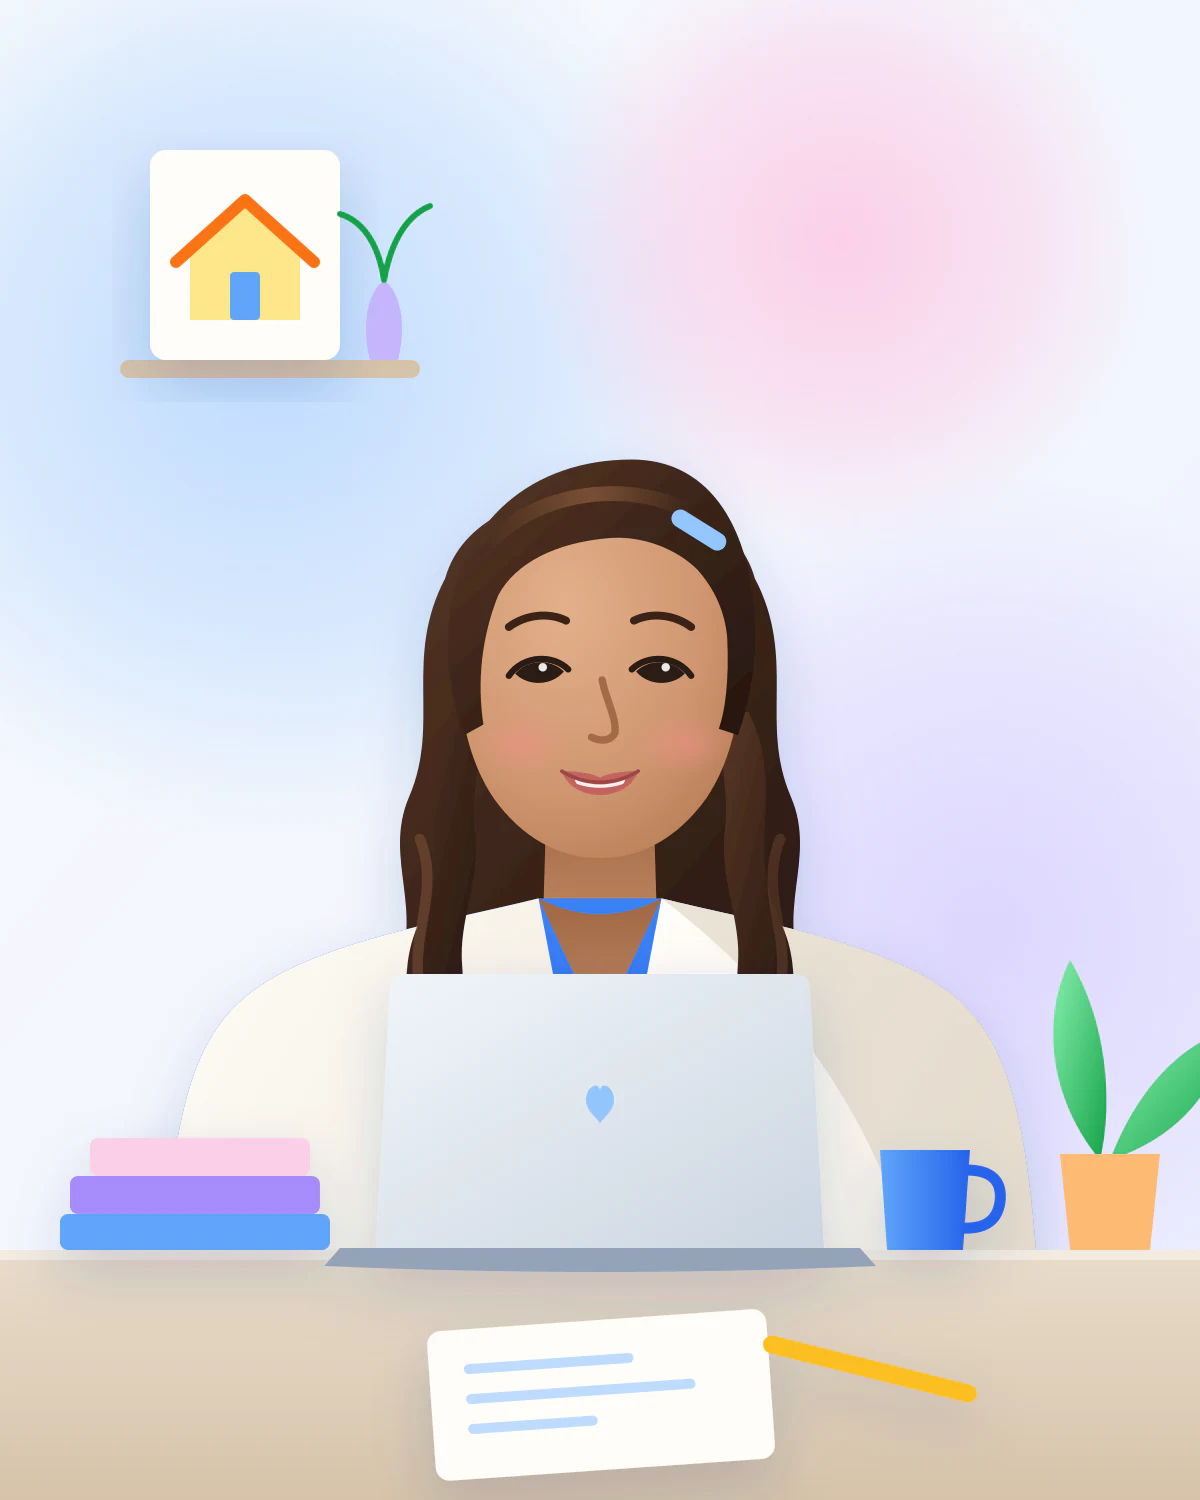
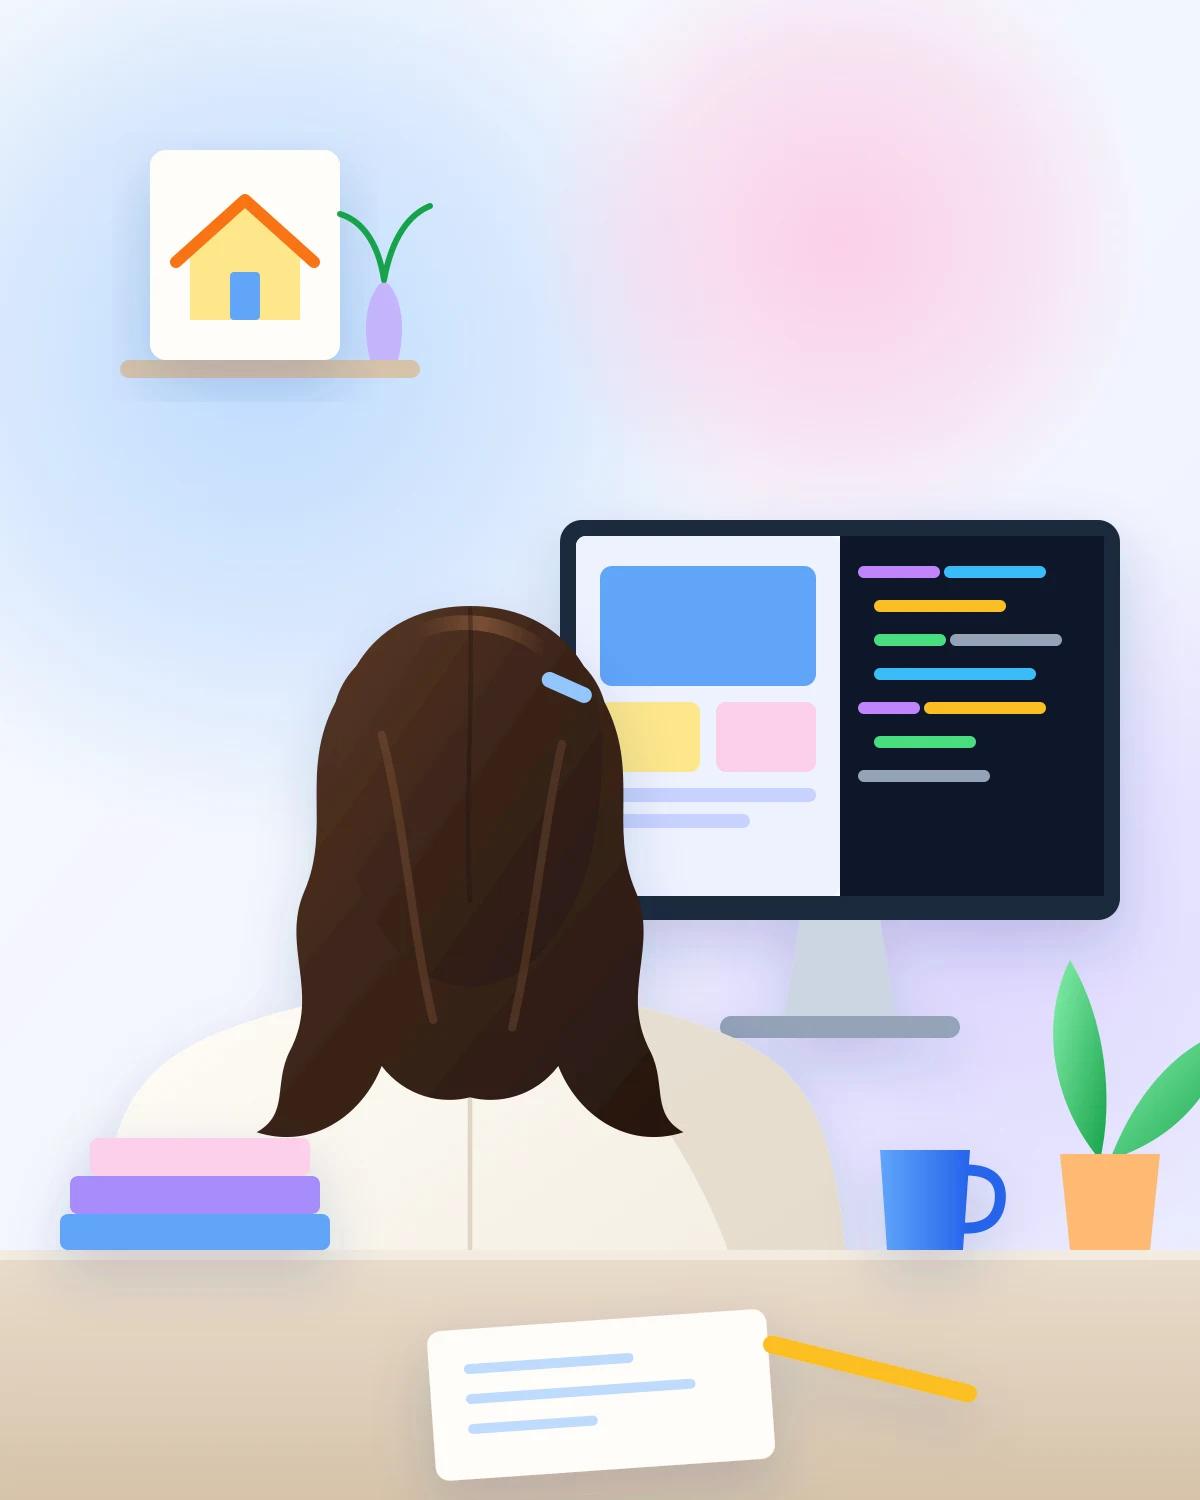
Sorelle: potret tampak belakang tanpa wajah, mockup karya ditangkap ulang tanpa teks alamat, SUMBER.md

Changed region(s): [[0.2158, 0.3067, 0.9558, 0.8587]]

diff --git a/lib/data.js b/lib/data.js
@@ -8,8 +8,8 @@ export const profile = {
   "email": "hello@sorelle.example",
   "avatar": "/images/hero.webp",
   "about": "/images/about.webp",
-  "avatarAlt": "Illustrated portrait of Sorelle with long wavy hair, a cream cardigan and a blue top",
-  "aboutAlt": "Illustration of Sorelle at her laptop with a stack of books, a blue mug and a plant",
+  "avatarAlt": "Illustration of Sorelle seen from behind: long wavy hair, a cream cardigan and a blue hair clip",
+  "aboutAlt": "Illustration of Sorelle seen from behind at a desk, with a monitor showing a design canvas next to code",
   "intro": "Friendly interfaces for families, learners, and small makers.",
   "bioShort": "I design and build warm, honest websites — the kind that mention the downside before you ask.",
   "bio": [

diff --git a/public/images/SUMBER.md b/public/images/SUMBER.md
@@ -1,0 +1,17 @@
+# Sumber gambar
+
+Persona Sorelle fiktif. Tidak ada foto orang sungguhan. Tanpa testimoni.
+
+| Berkas | Isi | Pembuat | Lisensi / catatan |
+| --- | --- | --- | --- |
+| `hero.webp` | Ilustrasi Sorelle tampak belakang (rambut panjang, kardigan krem, jepit biru) | Dibuat sendiri (sumber: `design/hero.svg`) | Milik proyek; tanpa wajah |
+| `about.webp` | Ilustrasi Sorelle tampak belakang di meja dengan monitor kanvas desain + kode | Dibuat sendiri (sumber: `design/about.svg`) | Milik proyek; tanpa wajah |
+| `work/beranda.webp` | Tangkapan layar situs properti-beranda dalam bingkai peramban + ponsel | Ditangkap dari situs live, dirangkai sendiri | Foto interior di dalamnya: CC0/PD, dicatat di repo properti-beranda |
+| `work/eduplay.webp` | Tangkapan layar landing-eduplay | Ditangkap dari situs live | Ilustrasi sendiri |
+| `work/elevinar.webp` | Tangkapan layar landing-elevinar | Ditangkap dari situs live | Ilustrasi sendiri |
+| `work/nexttalks.webp` | Tangkapan layar landing-nexttalks | Ditangkap dari situs live | Ilustrasi sendiri |
+| `work/woodora.webp` | Tangkapan layar landing-woodora | Ditangkap dari situs live | Foto kursi CC0 (Ryan Higgins), dicatat di repo landing-woodora |
+| `work/birthday.webp` | Tiga layar ponsel undangan-birthday (sampul, tiket, wishlist) | Ditangkap dari situs live | Layar tanpa tokoh |
+| `../og.jpg`, `../og/work/*.jpg` | Pratinjau tautan 1200×630 dari gambar di atas | Dibuat sendiri | Tanpa wajah |
+
+Bingkai peramban dan ponsel digambar sendiri; bilah alamat sengaja dikosongkan.

diff --git a/README.md b/README.md
@@ -35,9 +35,9 @@ Persona fiktif Sorelle, desainer UI/UX. Bersih dan terang dengan angka bernomor 
 ## Gambar & kredit
 
 - `public/images/work/*.webp` — mockup bingkai peramban + ponsel (tiga ponsel untuk halaman tautan dan undangan) berisi
-  tangkapan layar demo live di tabel atas, diambil 18 Okt 2026; bingkainya digambar dengan gaya situs ini.
+  tangkapan layar demo live di tabel atas, diambil ulang 30 Okt 2026, tanpa teks alamat; bingkainya digambar dengan gaya situs ini.
   `public/og/work/*.jpg` adalah versi 1200×630-nya untuk pratinjau tautan.
-- `public/images/hero.webp`, `public/images/about.webp` — ilustrasi potret persona fiktif Sorelle buatan sendiri
+- `public/images/hero.webp`, `public/images/about.webp` — ilustrasi persona fiktif Sorelle tampak belakang (tanpa wajah), buatan sendiri
   (gaya gradien lembut + blob pastel); sumber SVG-nya di `design/`. Bukan wajah orang sungguhan dan tidak memakai foto stok.
 - `public/og.jpg` — tangkapan beranda 1200×630.
 
